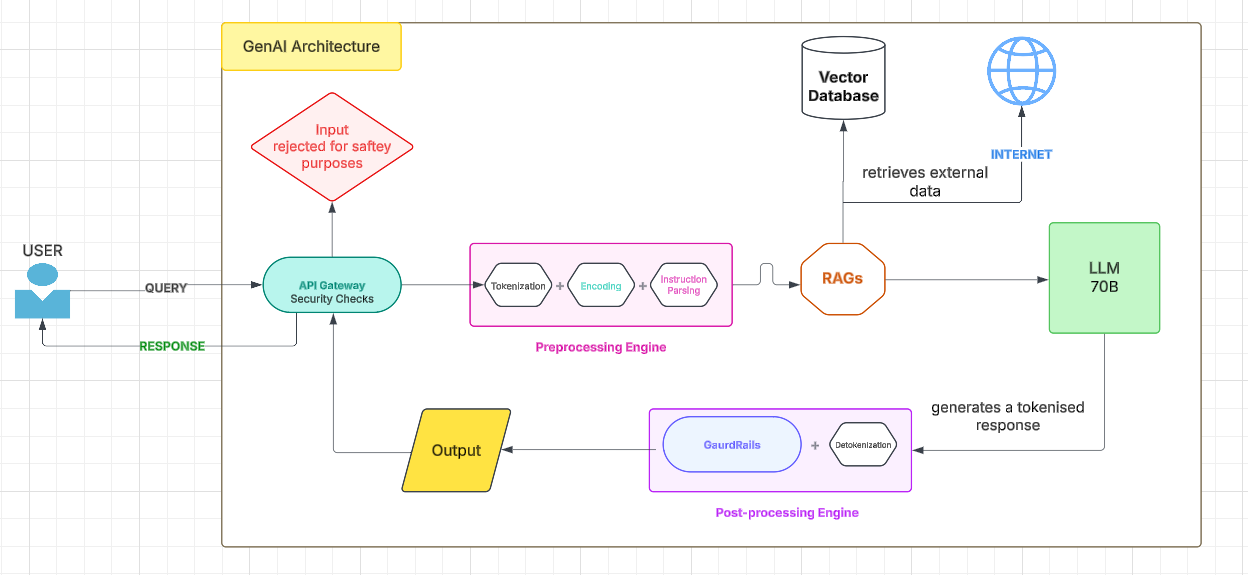
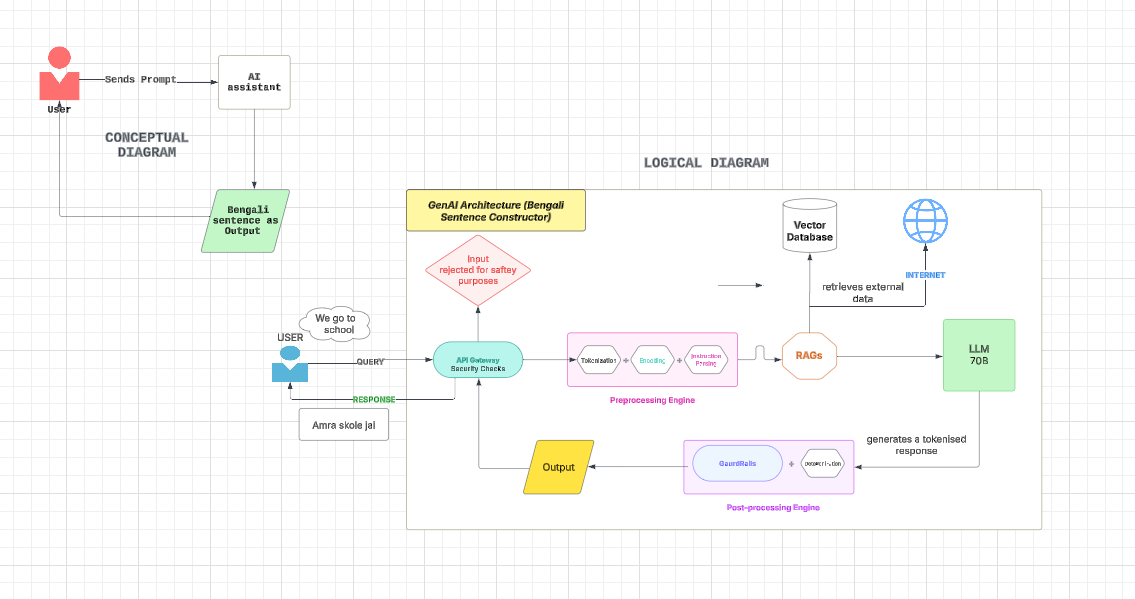
completed GenAI Architecting

diff --git a/genai-architecting/README.md b/genai-architecting/README.md
@@ -1,0 +1,25 @@
+# Architecting GenAI [Topic: Sentence Constructor(English to Bengali(IN))]
+
+## Business Goal
+Created architectural diagrams to explain the stakeholders understand how GenAI assistants work to help construct sentences from English user input to Bengali sentences as output.
+
+## Technical Considerations
+I've used these two following diagrams: 
+
+- **Conceptual** — a high-level diagram that is used to communicate to key stakeholders the business solution we are implementing.
+- **Logical** — a mid-level diagram that describes the key technical components but does not require detailed parameters so we can quickly rearchitect and communicate to our technical team the current workload.
+
+## Architectural/Design Considerations
+- **Requirements, Risks:**
+    - **Requirements**:
+        - The system should accurately translate English sentences to Bengali.
+        - The translation should be contextually appropriate and grammatically correct.
+        - The system should handle a large volume of translations efficiently.
+    - **Risks**:
+        - Inaccurate translations due to distinction in the language based on dialects.
+        - Performance bottlenecks with high volume translations.
+        - Data privacy concerns with user input.
+- **Scalability and Future-Proofing**
+    - The architecture should support scaling horizontally to handle increased load.
+    - The system should be modular to allow easy updates and integration of new features.
+    - Consideration for future expansion to other dialects.
